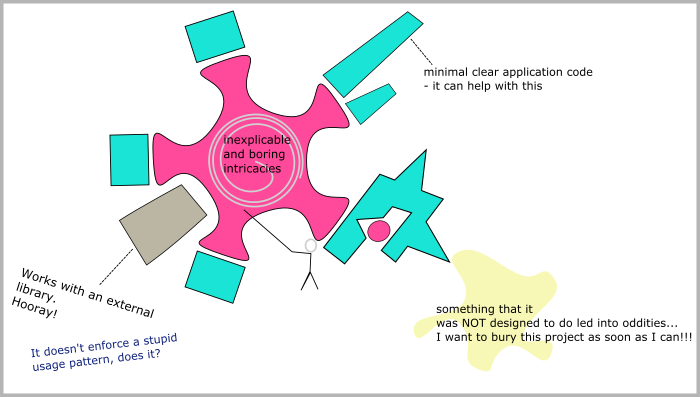
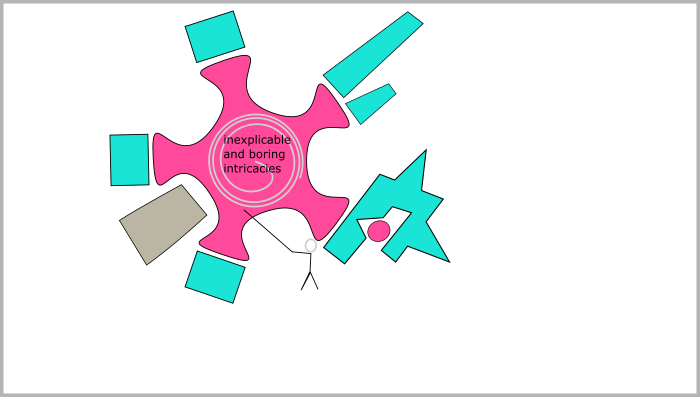
second version

diff --git a/_posts/2016-07-22-a-sceptics-introduction-to-software-frameworks.md b/_posts/2016-07-22-a-sceptics-introduction-to-software-frameworks.md
@@ -1,8 +1,8 @@
 ---
 layout: post
-title: A sarcastic sceptic's introduction to software frameworks
+title: A sceptic's introduction to software frameworks
 author: pvto
-excerpt: We live in a perfect digital world!
+excerpt: When starting a new project we want to have the best available tooling at hand
 tags:
 - software development
 - frameworks
@@ -10,21 +10,29 @@ tags:
 - cartoons
 ---
 
-We live in a perfect digital world.
+## Developers lead exciting lives
 
-## 1. Here we go
+And by picking the correct tools it gets even more exciting!  See for yourself:
 
 ![Frameworks - conception](/img/a-sceptics-introduction-to-software-frameworks/fr-1.png)
 *When starting a new project we want to have the best available tooling at hand.*
+
 ![Frameworks - 2](/img/a-sceptics-introduction-to-software-frameworks/fr-2.png)
-*Frameworks enable us as software developers and make our life easier.*
+*Shiny frameworks enable us and make our life easier.  That is the shit
+that they are designed for.*
+
 ![Frameworks - 3](/img/a-sceptics-introduction-to-software-frameworks/fr-3.png)
-*Framework designers are responsible for submitting software that fills our business requirements.*
+*Just keep in mind that frameworks generally help with your business requirements.*
+
 ![Frameworks - 4](/img/a-sceptics-introduction-to-software-frameworks/fr-4.png)
-*Reading and debugging framework based code is a joy.*
+*By long experience comes wisdom: as a community we came to understand that
+reading and debugging framework based code yields joy. So much.*
+
 ![Frameworks - 5](/img/a-sceptics-introduction-to-software-frameworks/fr-5.png)
-*They generate happy developers.*
+*Frameworks create happy developers.*
+
 ![Frameworks - 6](/img/a-sceptics-introduction-to-software-frameworks/fr-6.png)
-*Acquisition of understanding is a necessary part of framework adaptation.*
+*Understanding, too, is a necessary part of framework adaptation.*
+
 ![Frameworks - 7](/img/a-sceptics-introduction-to-software-frameworks/fr-7.png)
-*Using highly abstracted high-level APIs pays off in the long run vs. detailed control*
+*Even a young developer knows the value of abstract magical patterns.*
